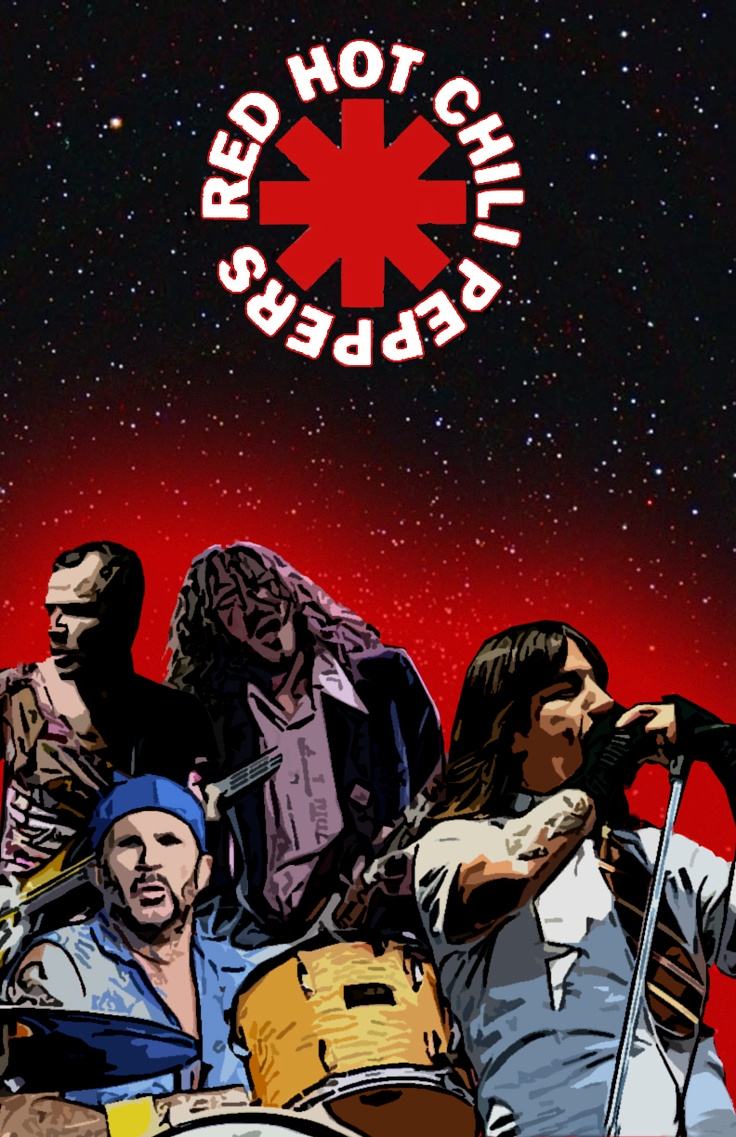
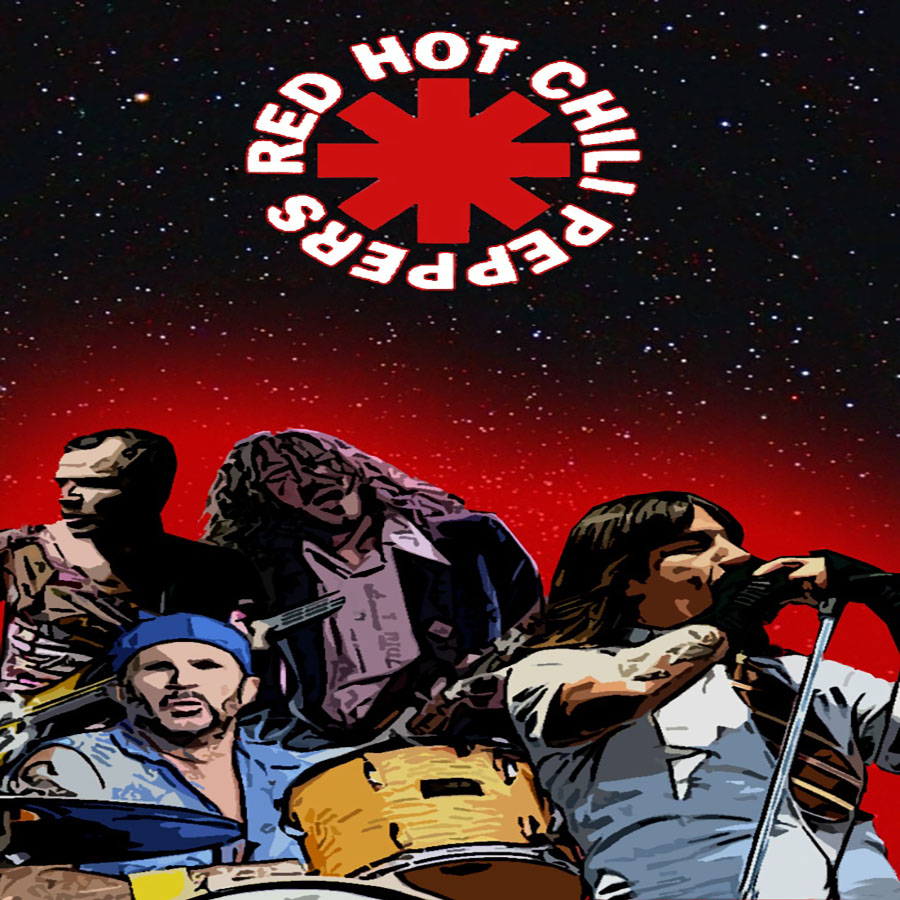
pictures resized

diff --git a/index.html b/index.html
@@ -10,10 +10,10 @@
   <title>A01-BouD</title>
 </head>
 
-<body >
+<body>
   <header>
-    <img src="img/profilPicture.svg" width="300px" height="300px" alt="profilPicture">
-    <h1 > <strong> Développeur front end </strong> </h1>
+    <img src="img/profil-picture1.png"" alt=" profilPicture">
+    <h1> <strong> Développeur front end </strong> </h1>
     <p> Let me be the css of your html.</p>
   </header>
 
@@ -22,13 +22,13 @@
     <div>
       <div>
 
-        <h2 > LA </br> MUSIQUE</h2>
+        <h2> LA </br> MUSIQUE</h2>
         <figure>
-          <img src="img/image1.jpg" width="500px" height="500px">
-          <figcaption > Pochette du troisieme album de Hollow coves
+          <img src="img/image1.jpg">
+          <figcaption> Pochette du troisième album de Hollow coves
           </figcaption>
-          <img src="img/image2.jpg" width="500px" height="500px">
-          <figcaption > Pochette du groupe Red hot chilli pepers
+          <img src="img/image2.jpg">
+          <figcaption> Pochette du groupe Red hot chilli pepers
           </figcaption>
         </figure>
 
@@ -37,7 +37,7 @@
         <br>
         <br>
 
-        <p > Je pense que la musique est vitale, j'adore la guitare
+        <p> Je pense que la musique est vitale, j'adore la guitare
           notamment
           les groupes de </br>rock des 90's
           comme Red hot Chilli pepers ou encore Oasis.
@@ -45,11 +45,9 @@
           me détendre.</br>
         </p>
       </div>
-    </div>
+    
 
-
-
-    <hr  width="75%">
+    <hr>
 
     <br>
     <br>
@@ -59,14 +57,14 @@
       <h2>LE </br> GRAPHISME</h2>
       <div>
         <figure>
-          <img src="img/image3.png" width="500px" height="500px">
-          <figcaption > photomontage réalisé sur photoshop :"Rencontre Nocture" </figcaption>
+          <img src="img/image3.png">
+          <figcaption> photomontage réalisé sur photoshop :"Rencontre Nocture" </figcaption>
         </figure>
         <br>
         <br>
         <br>
 
-        <p > faire des illustrations avec Photoshop et Illustrator me </br> permet
+        <p> faire des illustrations avec Photoshop et Illustrator me </br> permet
           de créer ...</br> des univers fascinants ...
         </p>
       </div>
@@ -75,8 +73,7 @@
   </section>
 
   <footer>
-
-    <p  > © 2020 Dylan Bourgain | All Rights Reserved </p>
+    <p> © 2020 Dylan Bourgain | All Rights Reserved </p>
     <a href="./index.html"> Accueil
     </a>
   </footer>
